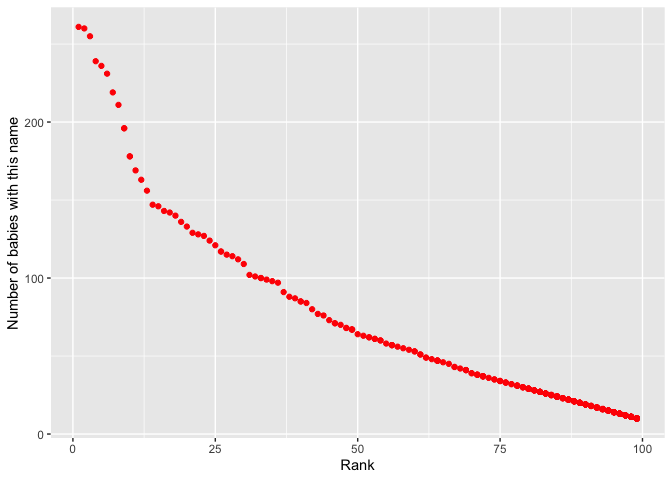
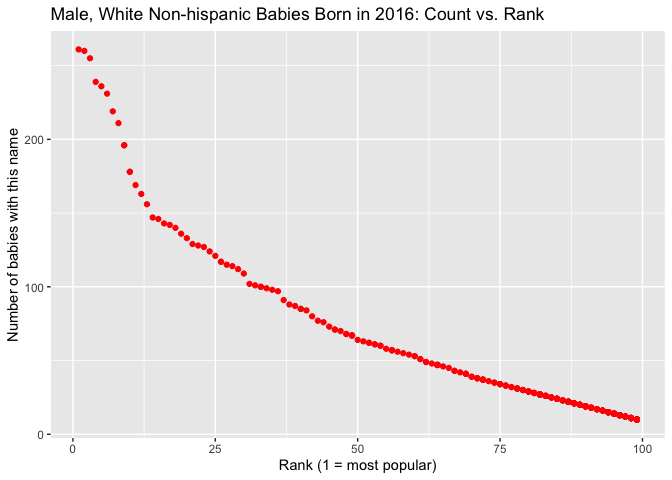
Minor update on the scatterplot

diff --git a/p8105_hw2_dz2426.md b/p8105_hw2_dz2426.md
@@ -222,14 +222,13 @@ male_table =
 ``` r
 final_df = filter(names_data, gender == "MALE", ethnicity == "WHITE NON HISPANIC", year_of_birth == "2016")
 
-scatterplot =
-  final_df %>% 
-  ggplot(aes(x = rank, y = count)) + 
+scatterplot = 
+  ggplot(final_df, aes(x = rank, y = count)) + 
   geom_point(color = 'red') +
-  xlab("Rank") +
+  xlab("Rank (1 = most popular)") + 
   ylab("Number of babies with this name")
 
-scatterplot
+print(scatterplot + ggtitle("Male, White Non-hispanic Babies Born in 2016: Count vs. Rank"))
 ```
 
 ![](p8105_hw2_dz2426_files/figure-gfm/unnamed-chunk-10-1.png)<!-- -->
